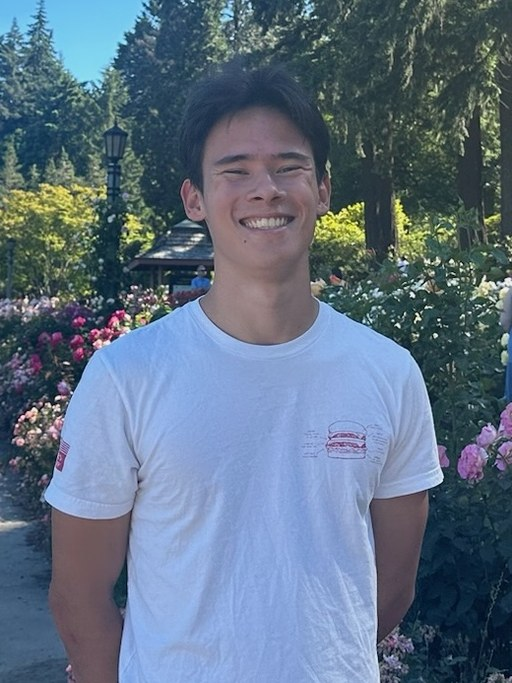
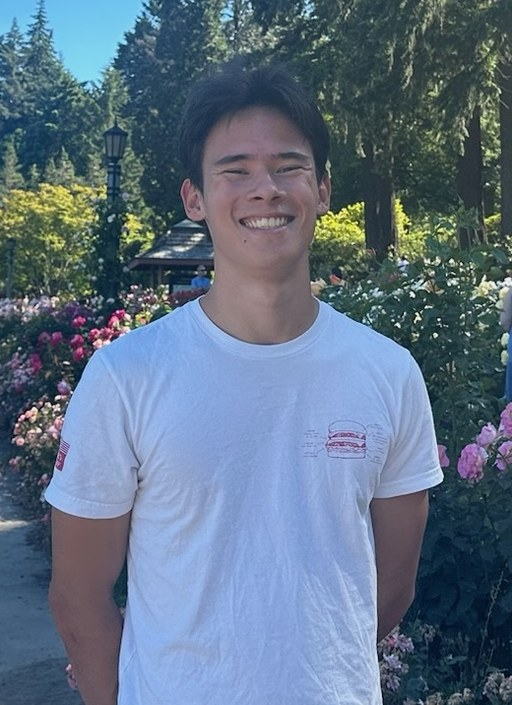
Close the 8px gap under the photo via its height
Measured off a full-width screenshot (content column 1346px wide at 2x
= 672 CSS px): the gap left of the photo is 30px, the gap below it 38px.
Height is the lever that moves the float's bottom edge continuously
against the text's line grid, so grow the box 244 -> 252px and re-export
the crop at the matching 183:252 ratio (512x705) so object-fit has
nothing to trim.

diff --git a/static/css/style.css b/static/css/style.css
@@ -119,7 +119,7 @@ main {
 
 .headshot {
   width: 183px;
-  height: 244px;
+  height: 252px;
   object-fit: cover;
   border-radius: 4px;
   border: 1px solid var(--rule);
